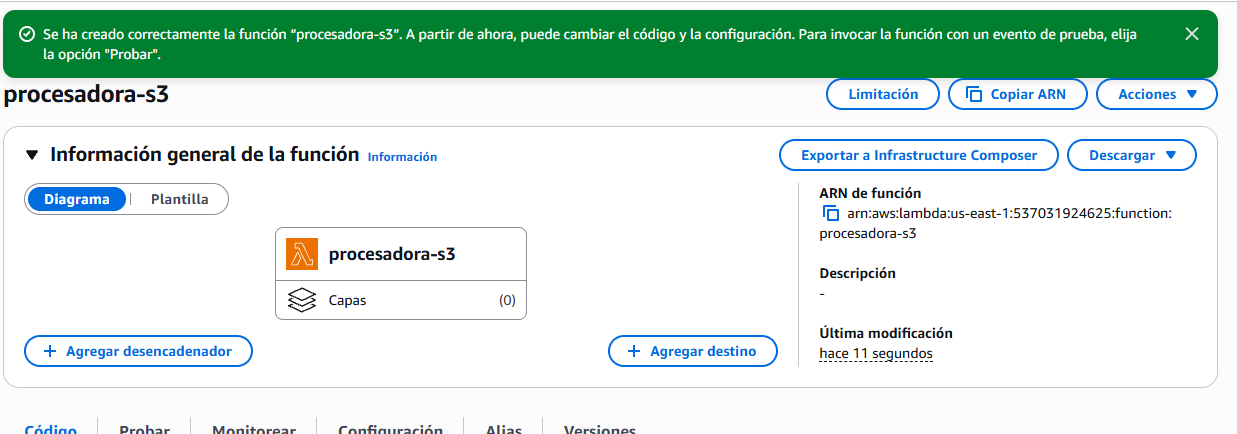
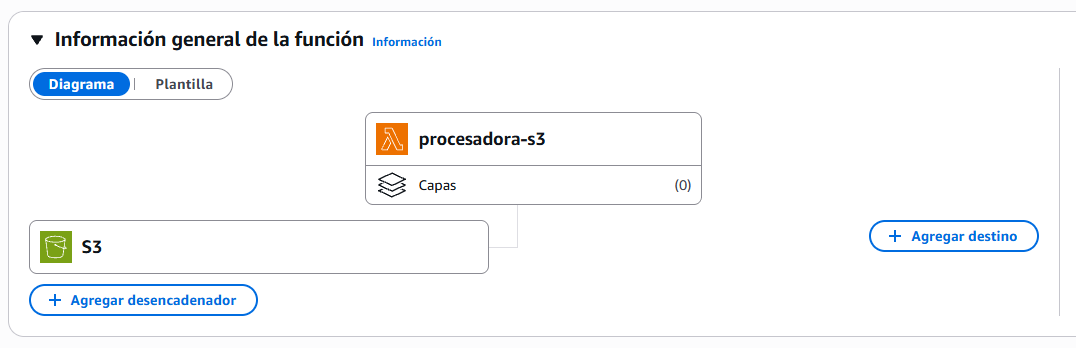
Actualización desde clase

diff --git a/ut04/pr0402/pr0302.md b/ut04/pr0402/pr0302.md
@@ -1,0 +1,29 @@
+1. Verificación de la zona y lanzamiento de la maquina base.
+    Creamos la nueva instancia.
+2. Creación y conexión del volumen EBS.
+    Creamos el volumen, poniendole el tamaño, la misma zona que la instancia y el nombre.
+3. Configuración del almacenamiento en el sistema operativo.
+    -   Nos conectamos a la maquina por ssh
+        ![alt text](imagenes/image1.png)
+    -   Hacemos un lsblk.
+        ![alt text](imagenes/image2.png)
+    -   Formateamos el disco con mkfs 
+        ![alt text](imagenes/image3.png)
+    -   Creamos un directorio como punto de montaje y el archivo de persistencia de datos.
+        ![alt text](imagenes/image5.png)
+4.  Automatización del montaje en /etc/fstab mediante UUID
+    -   Obtenemos nuestro UUID del disco con sudo blkid /dev/nvme1n1, copiamos el UUID y lo copiamos de la manera que se ve en la imagen en /etc/fstab
+        ![alt text](imagenes/image7.png)
+5.  Creacion de la AMI.
+    -   En la sección de la consola EC2, seleccionamos la instancia y en Actions creamos la imagen con los siguientes datos:
+        ![alt text](imagenes/image9.png)
+6.  Lanzamiento y verificación de la instacia clonada.
+    -   Cuando el estado de la AMI es Available, lanzamos la instancia desde la AMI.
+        ![alt text](imagenes/image13.png)
+    -   Cumplimentamos todos los datos de la nueva instancia, el nombre, tipo, par de claves, configuración de la red (seleccionando el Security Group que tenemos creado) y el almacenamiento.
+        ![alt text](imagenes/image10.png)
+    -   Una vez realizados los pasos, pulsamos en Lanzar instancia. 
+    -   Por último, una vez vemos que la instancia se ha lanzado correctamente, nos conectamos por shh a la máquina con la nueva ip.
+        ![alt text](imagenes/image11.png)
+        ![alt text](imagenes/image12.png)
+        [Volver al inicio](../index.md)

diff --git a/ut04/pr0404/pr0304.md b/ut04/pr0404/pr0304.md
@@ -1,0 +1,19 @@
+## Paso 1: Creación del clúster ECS con AWS Fargate
+Creamos el ECS y el cluster.
+    ![alt text](imagenes/1.png)
+## Paso 2: Creación de la Definición de Tarea (Task Definition)
+Creamos la definición de la tarea.
+    ![alt text](imagenes/2.png)
+    ![alt text](imagenes/3.png)
+## Paso 3: Despliegue del Servicio ECS
+Para desplegar el servicio, configuramos todo lo necesario en enviroment, deployment, networking y en load balancing.
+    ![alt text](imagenes/4.png)
+    ![alt text](imagenes/5.png)
+## Paso 4: Verificación y pruebas de acceso
+Una vez realizado todo el proceso, hacemos la verificación y puebas de acceso entrando al cluster y seleccionando el servicio.
+    ![alt text](imagenes/6.png)
+    ![alt text](imagenes/7.png)
+En el navegador, con http:// y la ip pública, comprobamos que todo funciona correctamente.
+    ![alt text](imagenes/8.jpeg)
+
+[Volver al inicio](../index.md)

diff --git a/ut04/pr0405/pr0305.md b/ut04/pr0405/pr0305.md
@@ -1,0 +1,10 @@
+# Captura 1: consola de S3 mostrando el bucket creado y el archivo de texto de prueba subido correctamente
+   ![alt text](imagenes/3.png)
+# Captura 2: diseñador de la función Lambda mostrando el disparador (Trigger) de S3 correctamente enlazado.
+   ![alt text](imagenes/2.png)
+# Captura 3: fragmento del código Python implementado en el editor de Lambda con el uso de la librería boto3.
+   ![alt text](imagenes/4.png)
+# Captura 4: consola de Amazon CloudWatch Logs mostrando la ejecución correcta de la función y la impresión del contenido del archivo de texto.
+   ![alt text](imagenes/5.png)
+
+[Volver al inicio](../index.md)

diff --git a/ut04/index.md b/ut04/index.md
@@ -1,0 +1,11 @@
+# Unidad de Trabajo 3
+
+- [Práctica 0401](pr0401/pr0401.md)
+- [Práctica 0402](pr0402/pr0402.md)
+- [Práctica 0403](pr0403/pr0403.md)
+- [Práctica 0404](pr0404/pr0404.md)
+- [Práctica 0405](pr0405/pr0405.md)
+
+---
+
+[Volver al inicio](../index.md)

diff --git a/ut04/pr0403/pr0303.md b/ut04/pr0403/pr0303.md
@@ -1,0 +1,10 @@
+1. Implementar una política de acceso de red de mínimo privilegio mediante el encadenamiento de dos Security Groups (sg-alb y sg-backend).
+    
+
+
+
+
+
+
+
+[Volver al inicio](../index.md)
